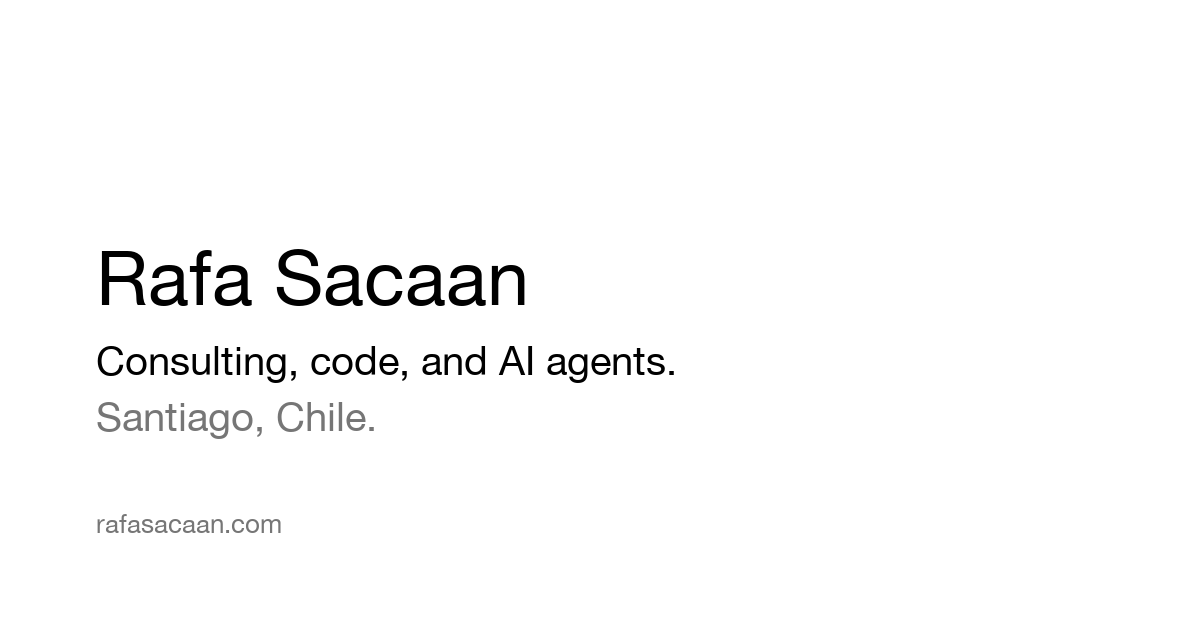
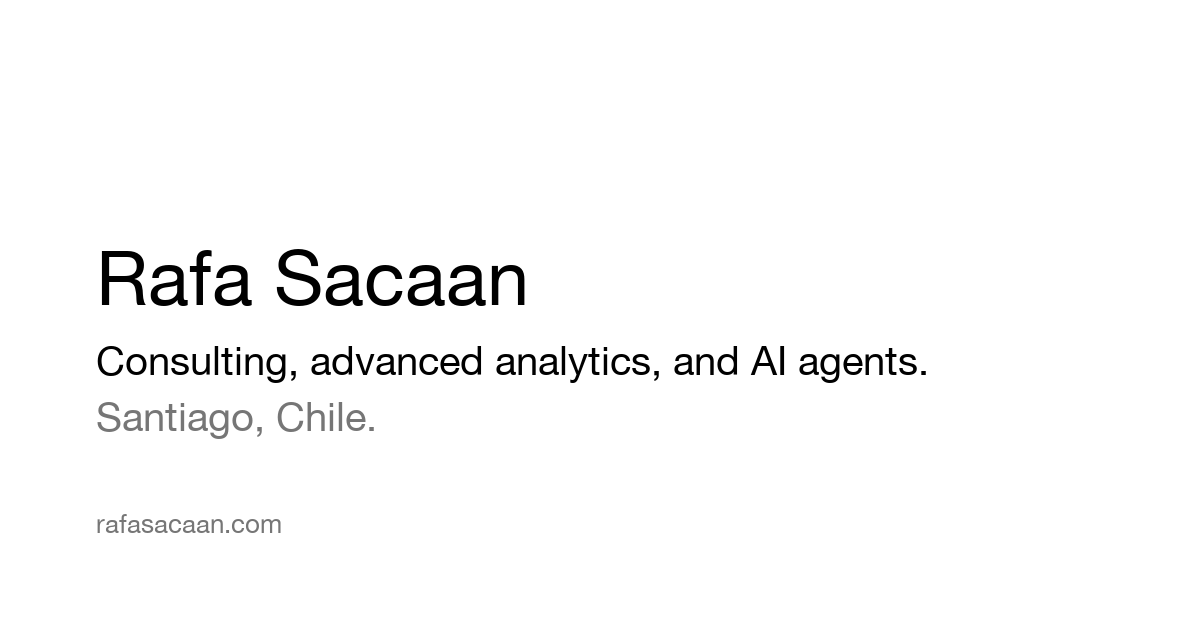
Real project pages, headings, 404, and a self-updating date
Projects move from #hash views to real pages (/yoescritor/), so each one
carries its own title, description and og:image — a hash never reaches
the server, so shared project links used to preview as the home page.

The page had no headings at all: adds a visually hidden h1, and turns
"Projects" and the section labels into real h2s without changing how any
of it looks.

Also: a 404 in the site's own type instead of GitHub's grey default, and
"Last updated" now reads the Last-Modified header so it stops going
stale. Meta description and og images follow the rewritten bio.

Changed region(s): [[0.2467, 0.5429, 0.7708, 0.6032]]

diff --git a/index.html b/index.html
@@ -3,19 +3,19 @@
 <head>
 <meta charset="utf-8">
 <meta name="viewport" content="width=device-width, initial-scale=1">
-<title>Rafa Sacaan | Consulting, code, and AI agents</title>
-<meta name="description" content="I'm Rafa Sacaan, an engineer based in Santiago, Chile, working at the intersection of consulting with advanced analytics, code, and AI agents.">
-<meta property="og:title" content="Rafa Sacaan | Consulting, code, and AI agents">
-<meta property="og:description" content="I'm Rafa Sacaan, an engineer based in Santiago, Chile, working at the intersection of consulting with advanced analytics, code, and AI agents.">
+<title>Rafa Sacaan | Consulting, advanced analytics, and AI agents</title>
+<meta name="description" content="I'm Rafa Sacaan, an engineer in Santiago, Chile, working at the intersection of consulting and advanced analytics — and building AI agents that do real work.">
+<meta property="og:title" content="Rafa Sacaan | Consulting, advanced analytics, and AI agents">
+<meta property="og:description" content="I'm Rafa Sacaan, an engineer in Santiago, Chile, working at the intersection of consulting and advanced analytics — and building AI agents that do real work.">
 <meta property="og:type" content="website">
 <meta property="og:url" content="https://rafasacaan.com/">
 <meta property="og:image" content="https://rafasacaan.com/og.png">
 <meta property="og:image:width" content="1200">
 <meta property="og:image:height" content="630">
-<meta property="og:image:alt" content="Rafa Sacaan — consulting, code, and AI agents. Santiago, Chile.">
+<meta property="og:image:alt" content="Rafa Sacaan — consulting, advanced analytics, and AI agents. Santiago, Chile.">
 <meta name="twitter:card" content="summary_large_image">
-<meta name="twitter:title" content="Rafa Sacaan | Consulting, code, and AI agents">
-<meta name="twitter:description" content="I'm Rafa Sacaan, an engineer based in Santiago, Chile, working at the intersection of consulting with advanced analytics, code, and AI agents.">
+<meta name="twitter:title" content="Rafa Sacaan | Consulting, advanced analytics, and AI agents">
+<meta name="twitter:description" content="I'm Rafa Sacaan, an engineer in Santiago, Chile, working at the intersection of consulting and advanced analytics — and building AI agents that do real work.">
 <meta name="twitter:image" content="https://rafasacaan.com/og.png">
 <link rel="canonical" href="https://rafasacaan.com/">
 
@@ -31,11 +31,15 @@
 <link rel="preconnect" href="https://fonts.gstatic.com" crossorigin>
 <link href="https://fonts.googleapis.com/css2?family=Inter:ital,opsz,wght@0,14..32,400;1,14..32,400&display=swap" rel="stylesheet">
 
-<link rel="stylesheet" href="style.css">
+<link rel="stylesheet" href="/style.css">
 </head>
 <body>
 
-<div class="all" id="view-index">
+<!-- El diseño no muestra el nombre en grande, pero la página igual necesita un
+     h1: es el punto de entrada para lectores de pantalla y buscadores. -->
+<h1 class="vh">Rafa Sacaan</h1>
+
+<div class="all">
 
   <div class="left">
     <p class="para">
@@ -55,13 +59,12 @@
       it could be redesigned.
     </p>
 
-    <p class="para para--heading">Projects</p>
+    <h2 class="para para--heading">Projects</h2>
 
-    <!-- Cada proyecto es un <a> a su propia URL con hash. El router de abajo
-         cambia de vista al oírla, así el link es compartible y el botón atrás
-         del navegador funciona. -->
+    <!-- Cada proyecto es una página propia: URL real, su propio og:image y su
+         propia entrada en buscadores. -->
     <div class="projects">
-      <a class="project-name" href="#project-yoescritor">yoescritor</a>
+      <a class="project-name" href="/yoescritor/">yoescritor</a>
     </div>
   </div>
 
@@ -73,7 +76,7 @@
       <a href="https://www.linkedin.com/in/rafaelsacaanamunategui/" target="_blank" rel="noopener me">LinkedIn</a><br>
       <a href="https://github.com/rafasacaan" target="_blank" rel="noopener me">GitHub</a>
       <br>&zwnj;<br>
-      Last updated [09/08/26]
+      Last updated [<span id="updated">09/08/26</span>]
     </p>
 
     <p class="note">
@@ -84,96 +87,7 @@
 
 </div>
 
-<!-- Vista de proyecto: reemplaza la portada en vez de desplegarse debajo.
-     Vive en su propia URL (#project-yoescritor), así se puede compartir. -->
-<div class="project-view" id="project-yoescritor" data-title="yoescritor"
-     tabindex="-1" hidden>
-
-  <header class="bar">
-    <a class="bar-home" href="#">Home &mdash; Projects</a>
-    <span class="bar-name">yoescritor</span>
-    <a class="bar-close" href="#" aria-label="Close project">&times;</a>
-  </header>
-
-  <div class="project-body">
-    <p class="panel-spec">2026 &nbsp;·&nbsp; writing companion &nbsp;·&nbsp; in design</p>
-
-    <p class="panel-label">Overview</p>
-    <p class="panel-text">
-      An AI companion for writing &mdash; one that helps you find the writer
-      already living inside you. The bet is simple: help you write better, so
-      that you keep writing at all.
-    </p>
-    <p class="panel-text">
-      It started from a personal problem. I write in notebooks and never look
-      back, because reading myself is uncomfortable &mdash; the inner critic is
-      always the cruelest one. yoescritor is meant to sit next to that voice
-      rather than replace it: closer to a note in the margin than to a chat
-      window.
-    </p>
-
-    <p class="panel-label">Demo</p>
-    <div class="video" role="img" aria-label="Demo video placeholder">
-      <svg viewBox="0 0 24 24" width="40" height="40" aria-hidden="true">
-        <circle cx="12" cy="12" r="11" fill="none" stroke="#bbb" stroke-width="1"/>
-        <path d="M10 8.5l6 3.5-6 3.5z" fill="#bbb"/>
-      </svg>
-      <span>Coming soon</span>
-    </div>
-
-    <p class="panel-label">Writing</p>
-    <ol class="panel-list">
-      <li><span class="unpublished">Escribir casi solo <em>&mdash; draft</em></span></li>
-    </ol>
-  </div>
-</div>
-
-<script>
-  // Router de hash: #project-<slug> muestra esa vista y esconde la portada.
-  // Es un <a> de verdad, así que el link se comparte y el botón atrás vuelve.
-  (function () {
-    var HOME_TITLE = document.title;
-    var index = document.getElementById('view-index');
-    var views = document.querySelectorAll('.project-view');
-
-    function route() {
-      var id = location.hash.slice(1);
-      var target = id ? document.getElementById(id) : null;
-      if (target && !target.classList.contains('project-view')) target = null;
-
-      views.forEach(function (v) { v.hidden = v !== target; });
-      index.hidden = !!target;
-
-      document.title = target
-        ? target.dataset.title + ' — Rafa Sacaan'
-        : HOME_TITLE;
-
-      window.scrollTo(0, 0);
-      if (target) target.focus({ preventScroll: true });
-    }
-
-    // volver a la portada sin dejar un "#" colgando en la barra de direcciones
-    document.querySelectorAll('.bar-home, .bar-close').forEach(function (a) {
-      a.addEventListener('click', function (e) {
-        e.preventDefault();
-        history.pushState(null, '', location.pathname);
-        route();
-      });
-    });
-
-    // Escape cierra el proyecto, como el × de la barra
-    document.addEventListener('keydown', function (e) {
-      if (e.key === 'Escape' && location.hash) {
-        history.pushState(null, '', location.pathname);
-        route();
-      }
-    });
-
-    window.addEventListener('hashchange', route);
-    window.addEventListener('popstate', route);
-    route(); // respeta el hash con el que se entró (deep link)
-  })();
-</script>
+<script src="/updated.js"></script>
 
 </body>
 </html>

diff --git a/yoescritor/index.html b/yoescritor/index.html
@@ -1,0 +1,76 @@
+<!doctype html>
+<html lang="en">
+<head>
+<meta charset="utf-8">
+<meta name="viewport" content="width=device-width, initial-scale=1">
+<title>yoescritor — Rafa Sacaan</title>
+<meta name="description" content="yoescritor is an AI companion for writing — one that helps you find the writer already living inside you. A project by Rafa Sacaan.">
+<meta property="og:title" content="yoescritor — Rafa Sacaan">
+<meta property="og:description" content="yoescritor is an AI companion for writing — one that helps you find the writer already living inside you. A project by Rafa Sacaan.">
+<meta property="og:type" content="article">
+<meta property="og:url" content="https://rafasacaan.com/yoescritor/">
+<meta property="og:image" content="https://rafasacaan.com/og-yoescritor.png">
+<meta property="og:image:width" content="1200">
+<meta property="og:image:height" content="630">
+<meta property="og:image:alt" content="yoescritor — an AI companion for writing. A project by Rafa Sacaan.">
+<meta name="twitter:card" content="summary_large_image">
+<meta name="twitter:title" content="yoescritor — Rafa Sacaan">
+<meta name="twitter:description" content="yoescritor is an AI companion for writing — one that helps you find the writer already living inside you. A project by Rafa Sacaan.">
+<meta name="twitter:image" content="https://rafasacaan.com/og-yoescritor.png">
+<link rel="canonical" href="https://rafasacaan.com/yoescritor/">
+
+<link rel="icon" href="/favicon.svg" type="image/svg+xml">
+<link rel="icon" href="/favicon-32.png" sizes="32x32" type="image/png">
+<link rel="apple-touch-icon" href="/apple-touch-icon.png">
+
+<link rel="preconnect" href="https://fonts.googleapis.com">
+<link rel="preconnect" href="https://fonts.gstatic.com" crossorigin>
+<link href="https://fonts.googleapis.com/css2?family=Inter:ital,opsz,wght@0,14..32,400;1,14..32,400&display=swap" rel="stylesheet">
+
+<link rel="stylesheet" href="/style.css">
+</head>
+<body>
+
+<div class="project-view">
+
+  <header class="bar">
+    <a class="bar-home" href="/">Home &mdash; Projects</a>
+    <h1 class="bar-name">yoescritor</h1>
+    <a class="bar-close" href="/" aria-label="Back to home">&times;</a>
+  </header>
+
+  <div class="project-body">
+    <p class="panel-spec">2026 &nbsp;·&nbsp; writing companion &nbsp;·&nbsp; in design</p>
+
+    <h2 class="panel-label">Overview</h2>
+    <p class="panel-text">
+      An AI companion for writing &mdash; one that helps you find the writer
+      already living inside you. The bet is simple: help you write better, so
+      that you keep writing at all.
+    </p>
+    <p class="panel-text">
+      It started from a personal problem. I write in notebooks and never look
+      back, because reading myself is uncomfortable &mdash; the inner critic is
+      always the cruelest one. yoescritor is meant to sit next to that voice
+      rather than replace it: closer to a note in the margin than to a chat
+      window.
+    </p>
+
+    <h2 class="panel-label">Demo</h2>
+    <div class="video" role="img" aria-label="Demo video placeholder">
+      <svg viewBox="0 0 24 24" width="40" height="40" aria-hidden="true">
+        <circle cx="12" cy="12" r="11" fill="none" stroke="#bbb" stroke-width="1"/>
+        <path d="M10 8.5l6 3.5-6 3.5z" fill="#bbb"/>
+      </svg>
+      <span>Coming soon</span>
+    </div>
+
+    <h2 class="panel-label">Writing</h2>
+    <ol class="panel-list">
+      <li><span class="unpublished">Escribir casi solo <em>&mdash; draft</em></span></li>
+    </ol>
+  </div>
+</div>
+
+</body>
+</html>

diff --git a/style.css b/style.css
@@ -6,6 +6,21 @@
 
 *{ box-sizing:border-box; margin:0; padding:0; }
 
+/* los headings existen por estructura, no por estilo: heredan tamaño y peso
+   del texto que los rodea, y cada clase decide cómo se ven */
+h1,h2,h3{ font-size:inherit; font-weight:inherit; line-height:inherit; }
+
+/* fuera de pantalla pero presente para lectores de pantalla y buscadores */
+.vh{
+  position:absolute;
+  width:1px; height:1px;
+  margin:-1px; padding:0;
+  overflow:hidden;
+  clip-path:inset(50%);
+  white-space:nowrap;
+  border:0;
+}
+
 html,body{ background:#fff; }
 
 body{
@@ -28,8 +43,6 @@ body{
   max-width:1106px;
   gap:52px;
 }
-/* display:flex le gana al atributo hidden, así que hay que decirlo aparte */
-.all[hidden]{ display:none; }
 
 /* left: bio + projects (wide) */
 .left{
@@ -105,17 +118,12 @@ body{
 .project-name:hover{ color:#767676; }
 .project-name:focus-visible{ outline:1px solid #000; outline-offset:4px; }
 
-/* ---- vista de proyecto ----
-   reemplaza la portada; el cuerpo baja a 17px/25px para que la barra y el
-   nombre del proyecto manden la jerarquía */
-/* vive como hermano de .all dentro del body flex, así que carga el mismo
-   ancho máximo para alinearse con la portada */
+/* ---- página de proyecto ----
+   comparte el ancho máximo de la portada para que las dos se alineen */
 .project-view{
   width:100%;
   max-width:1106px;
-  outline:none;
 }
-.project-view[hidden]{ display:none; }
 
 .bar{
   display:flex;
@@ -183,6 +191,8 @@ body{
   color:#000;
 }
 .panel-text + .panel-text{ margin-top:20px; }
+.panel-text a{ color:#767676; text-decoration:none; transition:color .2s; }
+.panel-text a:hover{ color:#000; }
 
 /* los posts numerados: la serie tiene orden, y el número lo hace evidente
    sin tener que repetir "hey-frank #N" en cada título */

diff --git a/404.html b/404.html
@@ -1,0 +1,39 @@
+<!doctype html>
+<html lang="en">
+<head>
+<meta charset="utf-8">
+<meta name="viewport" content="width=device-width, initial-scale=1">
+<title>Not found — Rafa Sacaan</title>
+<meta name="robots" content="noindex">
+
+<link rel="icon" href="/favicon.svg" type="image/svg+xml">
+<link rel="icon" href="/favicon-32.png" sizes="32x32" type="image/png">
+<link rel="apple-touch-icon" href="/apple-touch-icon.png">
+
+<link rel="preconnect" href="https://fonts.googleapis.com">
+<link rel="preconnect" href="https://fonts.gstatic.com" crossorigin>
+<link href="https://fonts.googleapis.com/css2?family=Inter:ital,opsz,wght@0,14..32,400;1,14..32,400&display=swap" rel="stylesheet">
+
+<link rel="stylesheet" href="/style.css">
+</head>
+<body>
+
+<div class="project-view">
+  <header class="bar">
+    <a class="bar-home" href="/">Home &mdash; Projects</a>
+    <h1 class="bar-name">404</h1>
+  </header>
+
+  <div class="project-body">
+    <p class="panel-text">
+      There is nothing at this address. It may have moved, or it may never have
+      existed &mdash; this page is still being built, so both are likely.
+    </p>
+    <p class="panel-text">
+      <a href="/">Go back home</a>
+    </p>
+  </div>
+</div>
+
+</body>
+</html>

diff --git a/updated.js b/updated.js
@@ -1,0 +1,14 @@
+// La fecha de "Last updated" se saca del header Last-Modified que sirve
+// GitHub Pages, así se actualiza sola en cada deploy. El HTML trae una fecha
+// escrita a mano como fallback, por si el script no corre.
+(function () {
+  var el = document.getElementById('updated');
+  if (!el) return;
+
+  var d = new Date(document.lastModified);
+  if (isNaN(d)) return;
+
+  var pad = function (n) { return String(n).padStart(2, '0'); };
+  el.textContent =
+    pad(d.getDate()) + '/' + pad(d.getMonth() + 1) + '/' + String(d.getFullYear()).slice(-2);
+})();
